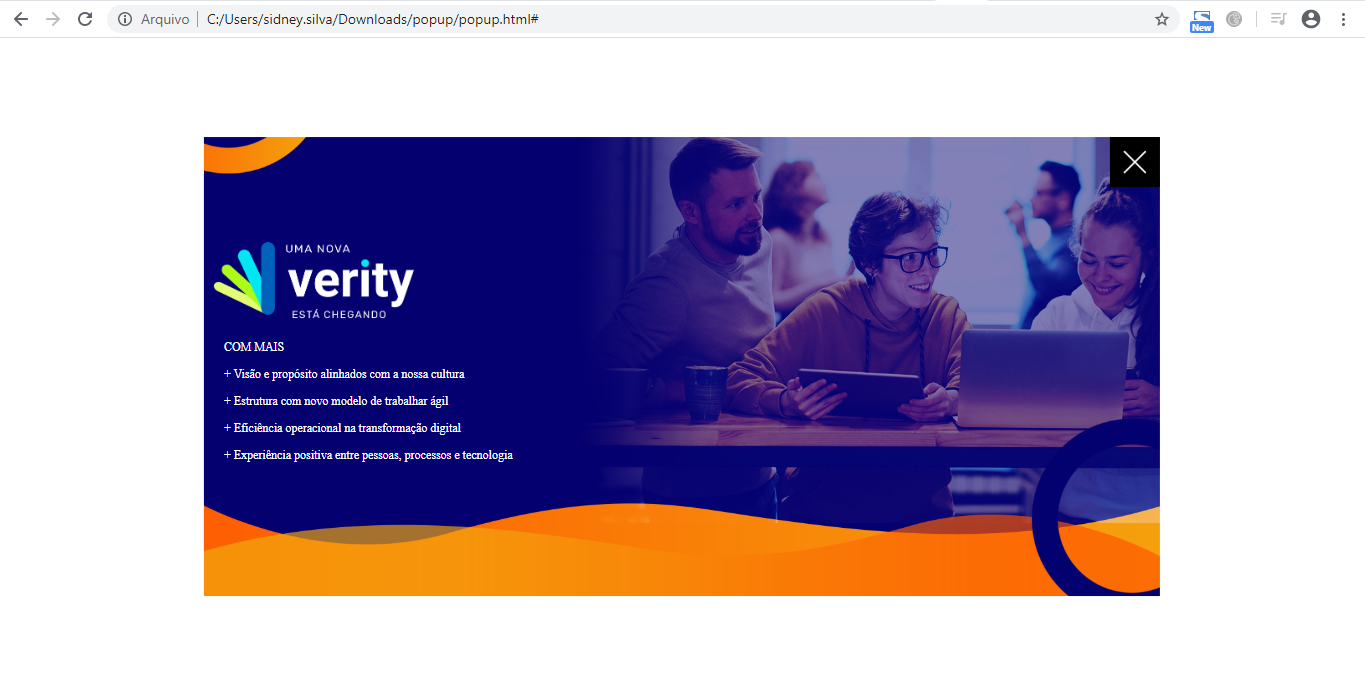
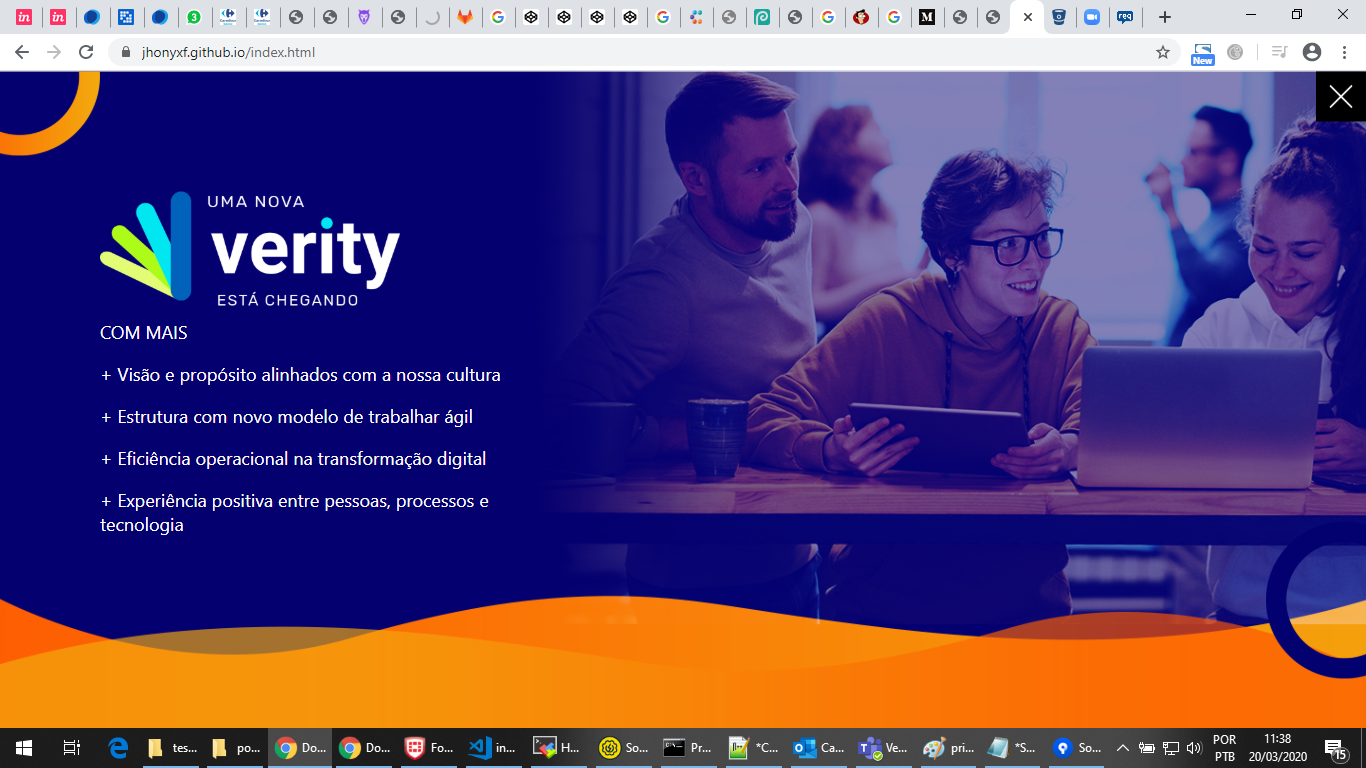
Add files via upload

diff --git a/index.html b/index.html
@@ -6,6 +6,8 @@
     <meta http-equiv="X-UA-Compatible" content="ie=edge">
     <title>Document</title>
     <style>
+
+        .left-10{margin-left: 10px}
          #pop{
             position: absolute;
             top: 50%;
@@ -20,42 +22,56 @@
         .logo-popup{
             position:absolute;
             left: 100px;
-            top: 120px;
-            width: 300px;
+            top: 110px;
+            width: 330px;
         }
         .close-popup{
             float:right;
             top:0px;
             width: 50px;
+            cursor: pointer;
         }
         .text-popup{
             position:absolute;
-            top:230px;
+            top:260px;
             left:100px;
             font-size: 18px;
             color:white;
         }
         .text-popup p{
-        width: 90%;
         font-family: -apple-system, BlinkMacSystemFont, 'Segoe UI', Roboto, Oxygen, Ubuntu, Cantarell, 'Open Sans', 'Helvetica Neue', sans-serif;
     }
         .arco-laranja{
             position: absolute;
             top: 0;
             left: 0;
-            width: 100px;
+            width: 140px;
         }
+
+        .img-10anos{
+            position:absolute;
+            left: 100px;
+            bottom: 30px;
+            width: 230px;
+        }
+        .img-texto{
+            position:absolute;
+            left: 320px;
+            bottom: 25px;
+            width: 350px;
+        }
+        
         .arco-azul{
             position:absolute;
             right: 0;
-            bottom: 50px;
-            width: 100px;
+            bottom: 20px;
+            width: 150px;
         }
 
 @media only screen and (max-width: 600px) {
     .logo-popup{
             position:absolute;
-            left: 20px;
+            left: 15px;
             top: 100px;
             width: 250px;
         }
@@ -66,26 +82,40 @@
         }
         .text-popup{
             position:absolute;
-            top:200px;
+            top:230px;
             left:20px;
             font-size: 14px;
             color:white;
         }
         .text-popup p{
-        width: 90%;
-        font-family: -apple-system, BlinkMacSystemFont, 'Segoe UI', Roboto, Oxygen, Ubuntu, Cantarell, 'Open Sans', 'Helvetica Neue', sans-serif;
+        font-family: Roboto, 'Open Sans', sans-serif;
     }
+        
         .arco-laranja{
             position: absolute;
             top: 0;
             left: 0;
-            width: 50px;
+            width: 90px;
         }
+
+        .img-10anos{
+            position:absolute;
+            left: 100px;
+            bottom: 100px;
+            width: 150px;
+        }
+        .img-texto{
+            position:absolute;
+            left: 30px;
+            bottom: 55px;
+            width: 290px;
+        }
+
         .arco-azul{
             position:absolute;
             right: 0;
             bottom: 50px;
-            width: 100px;
+            width: 90px;
         }
 }
     </style>
@@ -98,12 +128,14 @@
         <img class="logo-popup" src="logo.png">
         <div class="text-popup">
             <p>COM MAIS</p>
-            <p>+  Visão e propósito alinhados com a nossa cultura</p>
-            <p>+  Estrutura com novo modelo de trabalhar ágil</p>
-            <p>+  Eficiência operacional na transformação digital</p>
-            <p>+  Experiência positiva entre pessoas, processos e tecnologia</p>
+            <p class="left-10">+  Visão e propósito alinhados com a nossa cultura</p>
+            <p class="left-10">+  Estrutura com novo modelo de trabalhar ágil</p>
+            <p class="left-10">+  Eficiência operacional na transformação digital</p>
+            <p class="left-10">+  Experiência positiva entre pessoas, processos e tecnologia</p>
         </div>
         <img src="arco-azul.png" class="arco-azul">
+        <img src="img-10anos.png" class="img-10anos">
+        <img src="img-texto.png" class="img-texto">
         
     </div>
                  
